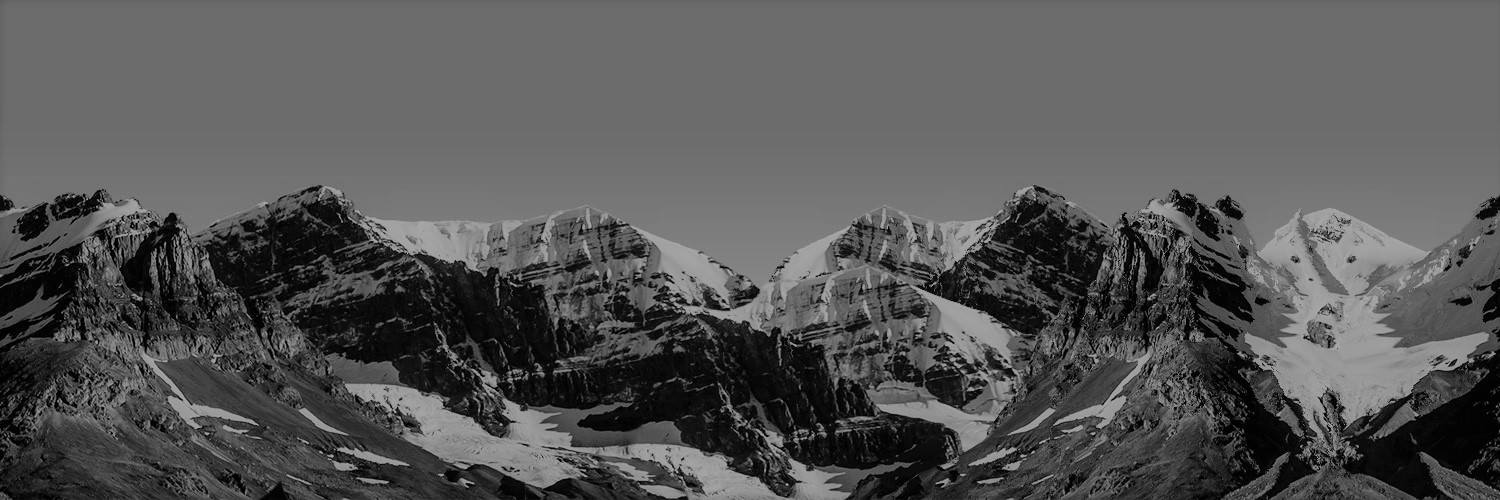
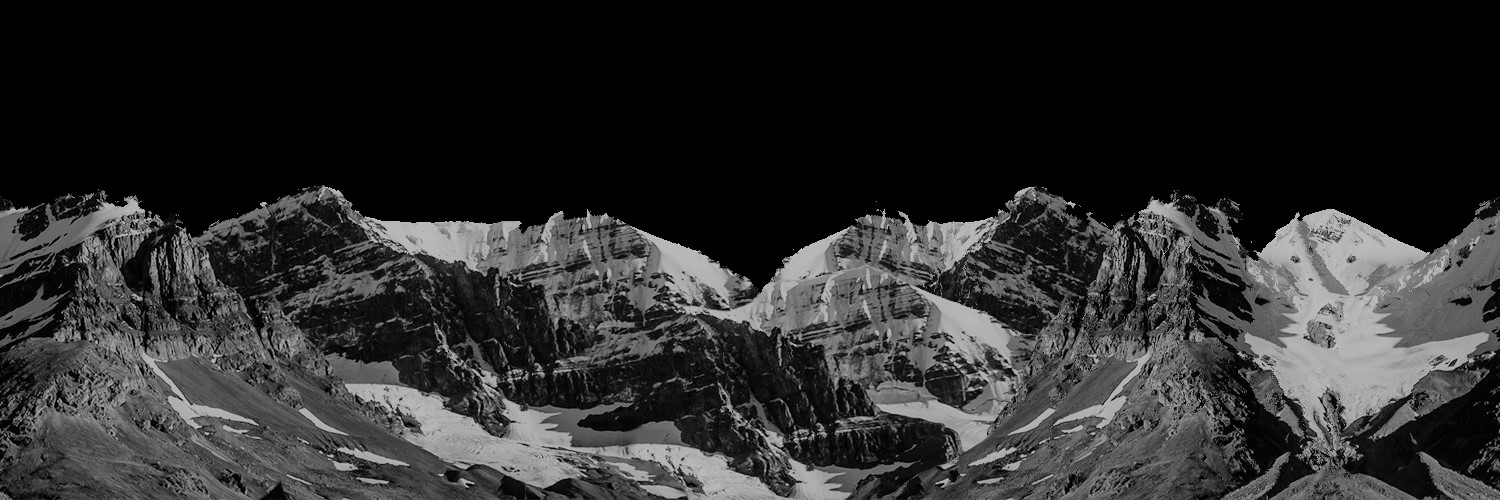
added contact links

diff --git a/index.html b/index.html
@@ -24,18 +24,16 @@
 						<p>Incident Responder &nbsp;&bull;&nbsp; VR enthusiast &nbsp;&bull;&nbsp; Hodler</p>
 						<nav>
 							<ul>
-								<li><a href="#" class="icon brands fa-twitter"><span class="label">Twitter</span></a></li>
-								<li><a href="#" class="icon brands fa-facebook-f"><span class="label">Facebook</span></a></li>
-								<li><a href="#" class="icon brands fa-dribbble"><span class="label">Dribbble</span></a></li>
-								<li><a href="#" class="icon brands fa-github"><span class="label">Github</span></a></li>
-								<li><a href="#" class="icon solid fa-envelope"><span class="label">Email</span></a></li>
+								<li><a href="https://twitter.com/xistenz" class="icon brands fa-twitter"><span class="label">Twitter</span></a></li>
+								<li><a href="https://discord.gg/wallstreetbets" class="icon brands fa-discord"><span class="label">Discord</span></a></li>
+								<li><a href="mailto:xistenz+website@gmail.com" class="icon solid fa-envelope"><span class="label">Email</span></a></li>
 							</ul>
 						</nav>
 					</header>
 
 				<!-- Footer -->
 					<footer id="footer">
-						<span class="copyright">&copy;<a href="http://xistenz.net">xistenz.net</a>.</span>
+						<span class="copyright">&copy;<a href="https://xistenz.net">xistenz</a></span>
 					</footer>
 
 			</div>

diff --git a/assets/css/main.css b/assets/css/main.css
@@ -226,7 +226,7 @@ input, select, textarea {
 		transform: translate3d(0,0,0);
 	/* Set your background with this */
 
-		background: #696969 url("images/bg0.jpg") bottom left;
+		background: #000000 url("images/bg0.jpg") bottom left;
 		background-repeat: repeat-x;
 		height: 100%;
 		left: 0;
